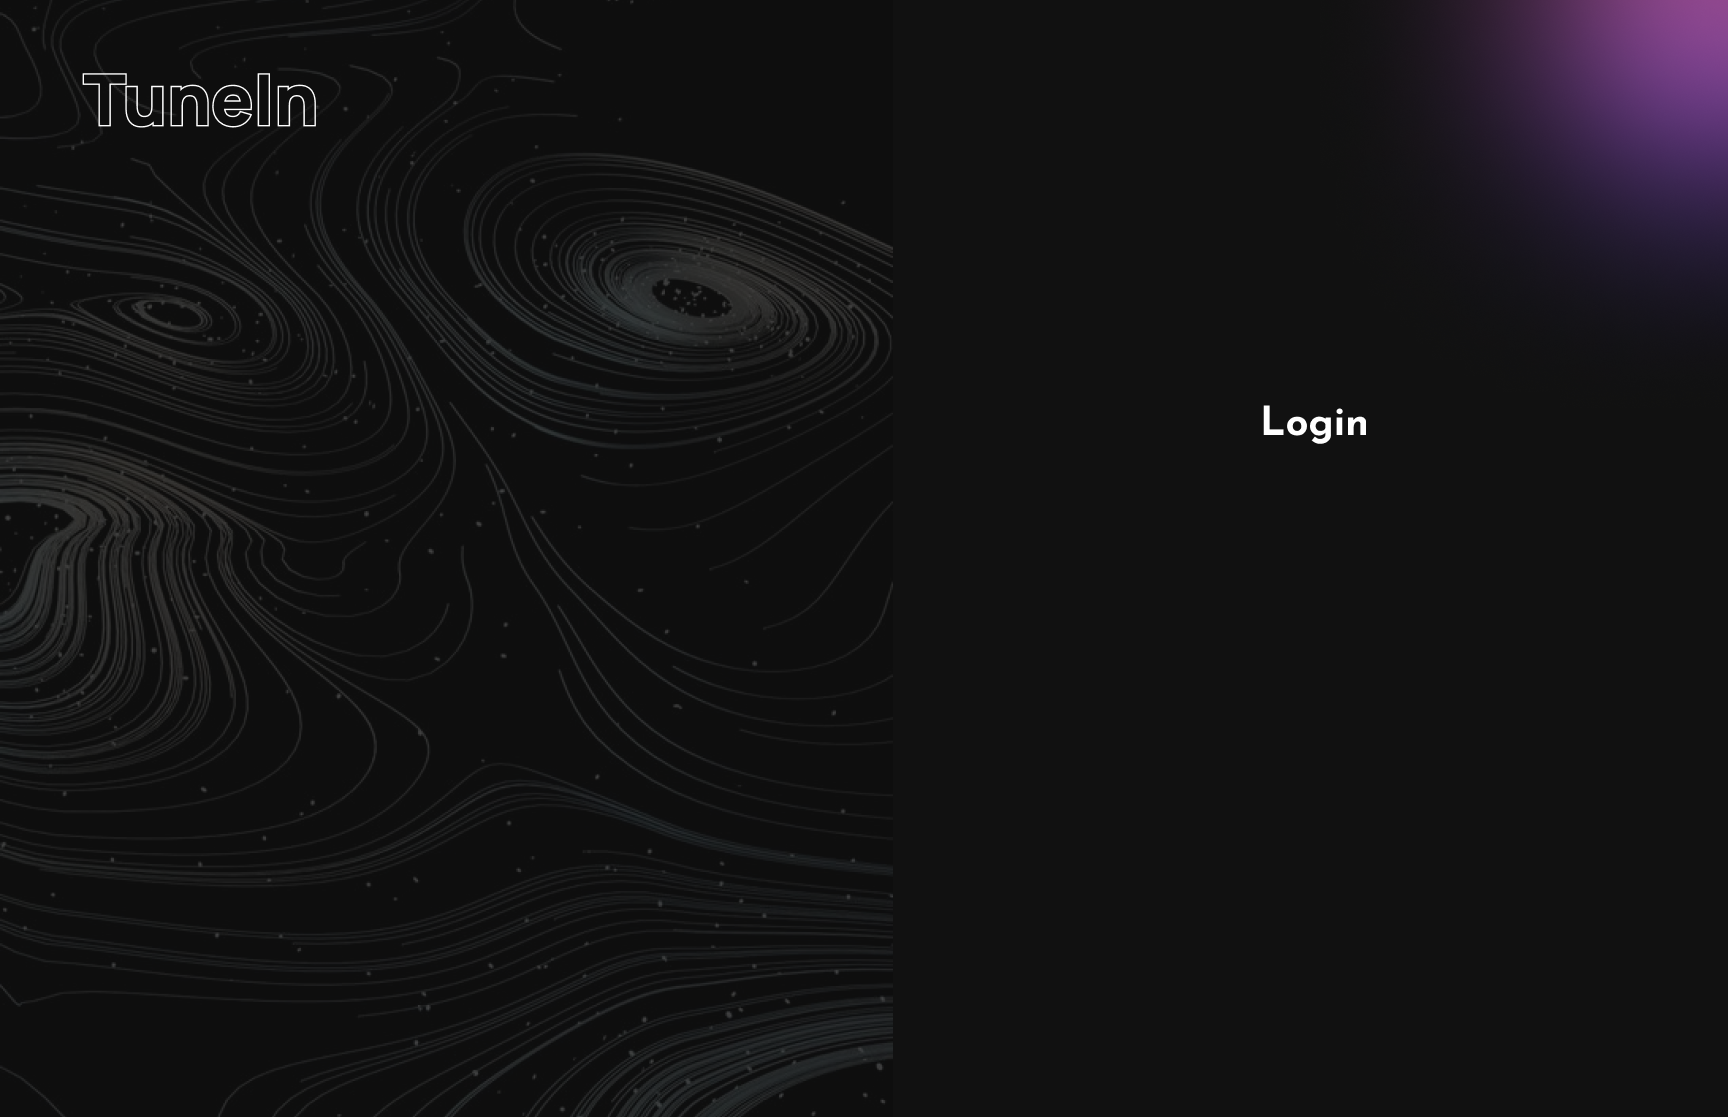
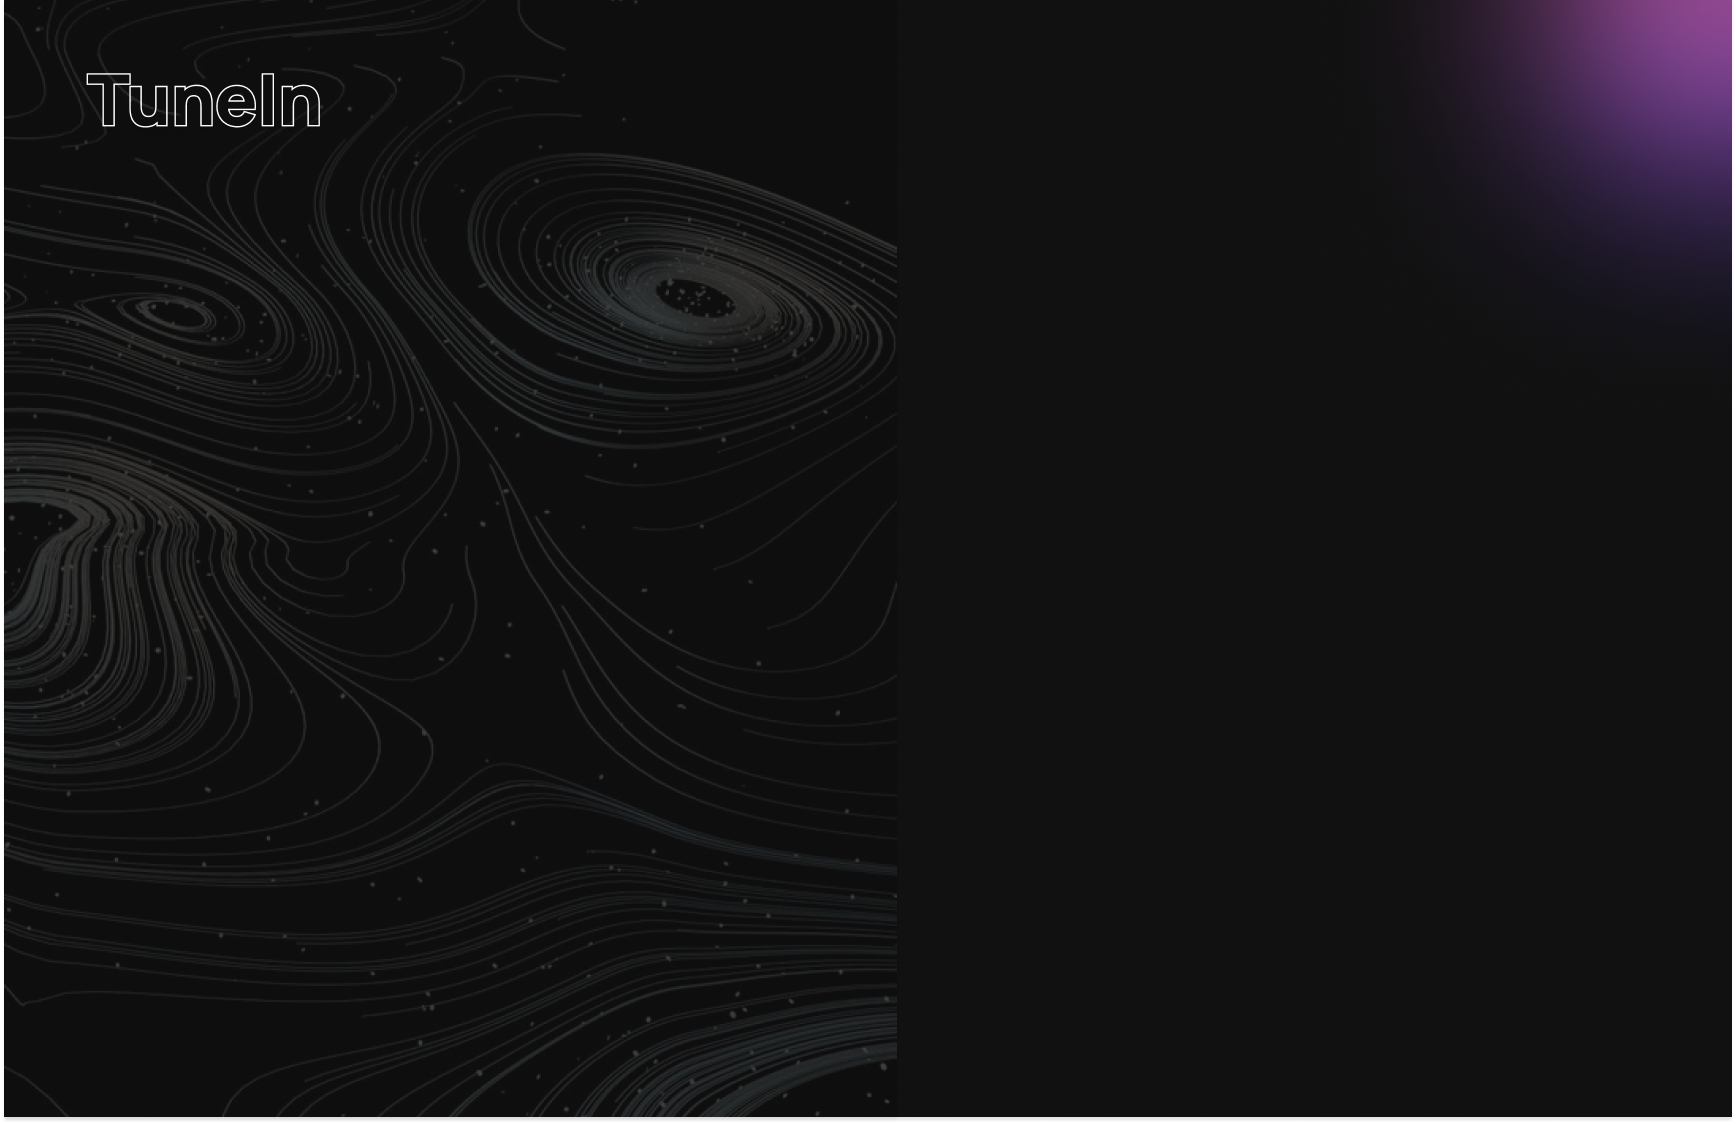
some fe and basic be

diff --git a/client/client/src/components/HomePage.js b/client/client/src/components/HomePage.js
@@ -1,0 +1,52 @@
+import React from 'react';
+import '../index.css';
+
+const HomePage = () => {
+  return (
+    <div className="home-page">
+      <header>
+        <input type="text" placeholder="Search podcasts" />
+        <div className="header-icons">
+          {/* Replace the src attribute with the correct path to your icon images */}
+          <img className="icon" src="/images/explore-icon.png" alt="Explore" />
+          <img className="icon" src="/images/upload-icon.png" alt="Upload" />
+          <img className="icon" src="/images/profile-icon.png" alt="Profile" />
+        </div>
+      </header>
+      <section className="content">
+        <div className="galleries">
+          <div className="gallery">
+            <h2>Trending</h2>
+            <div className="horizontal-scroll">
+              {/* Replace the src attribute with the correct path to your podcast images */}
+              <img src="/images/podcast1.png" alt="Podcast 1" />
+              <img src="/images/podcast2.png" alt="Podcast 2" />
+              {/* Add more podcast images here */}
+            </div>
+          </div>
+          <div className="gallery">
+            <h2>For You</h2>
+            <div className="horizontal-scroll">
+              {/* Replace the src attribute with the correct path to your podcast images */}
+              <img src="/images/podcast3.png" alt="Podcast 3" />
+              <img src="/images/podcast4.png" alt="Podcast 4" />
+              {/* Add more podcast images here */}
+            </div>
+          </div>
+        </div>
+        <div className="media-player">
+        <audio controls>
+            <source src="/audio/podcast-sample.mp3" type="audio/mpeg" />
+            Your browser does not support the audio element.
+          </audio>
+        </div>
+      </section>
+      <section className="cta-section">
+        <h2>Save Your Favourite Podcasts</h2>
+        <button className="cta-btn">Explore Now</button>
+      </section>
+    </div>
+  );
+};
+
+export default HomePage;

diff --git a/client/client/src/index.css b/client/client/src/index.css
@@ -167,7 +167,7 @@ header div {
 .register-page {
   display: flex;
   height: 100vh;
-  background-image: url('../public/images/Group_232.png');
+  background-image: url('../public/images/Group_233.png');
   background-repeat: no-repeat;
   background-size: cover;
 }
@@ -224,3 +224,88 @@ header div {
 .register-right button:hover {
   background-color: #ee8a3b;
 }
+
+/* HomePage styles */
+.home-page {
+  display: flex;
+  flex-direction: column;
+  align-items: center;
+  background-image: url('../public/images/Group_234.png');
+  background-repeat: no-repeat;
+  background-position: center;
+  background-size: cover;
+  height: 100vh;
+}
+
+.home-page header {
+  display: flex;
+  justify-content: space-between;
+  align-items: center;
+  width: 100%;
+  padding: 1rem;
+}
+
+.home-page header .search-bar {
+  width: 200px;
+  padding: 0.5rem;
+}
+
+.home-page header .icons {
+  display: flex;
+  gap: 1rem;
+}
+
+.content {
+  display: flex;
+  justify-content: space-between;
+  width: 90%;
+}
+
+.galleries {
+  display: flex;
+  flex-direction: column;
+  gap: 2rem;
+  width: 60%;
+}
+
+.gallery {
+  display: flex;
+  gap: 1rem;
+  overflow-x: auto;
+}
+
+.gallery img {
+  width: 200px;
+  height: 200px;
+  object-fit: cover;
+  cursor: pointer;
+}
+
+.media-player {
+  display: flex;
+  justify-content: center;
+  align-items: center;
+  width: 40%;
+}
+
+.explore-now {
+  display: flex;
+  flex-direction: column;
+  align-items: center;
+  gap: 1rem;
+  margin-top: 2rem;
+}
+
+.explore-now button {
+  padding: 0.5rem 1rem;
+  background-color: #f7a046;
+  border: none;
+  color: white;
+  cursor: pointer;
+  transition: background-color 0.3s ease;
+}
+
+.explore-now button:hover {
+  background-color: #ee8a3b;
+}
+

diff --git a/client/client/src/App.js b/client/client/src/App.js
@@ -2,12 +2,15 @@ import React from 'react';
 import './App.css';
 // import Home from './home';
 // import LoginPage from './components/LoginPage';
-import RegisterPage from './components/RegisterPage';
+// import RegisterPage from './components/RegisterPage';
+import HomePage from './components/HomePage';
+
 
 function App() {
   return (
     <div className="App">
-      <RegisterPage />
+      <HomePage/>
+      {/* <RegisterPage /> */}
       {/* <LoginPage /> */}
       {/* <Home /> */}
     </div>
